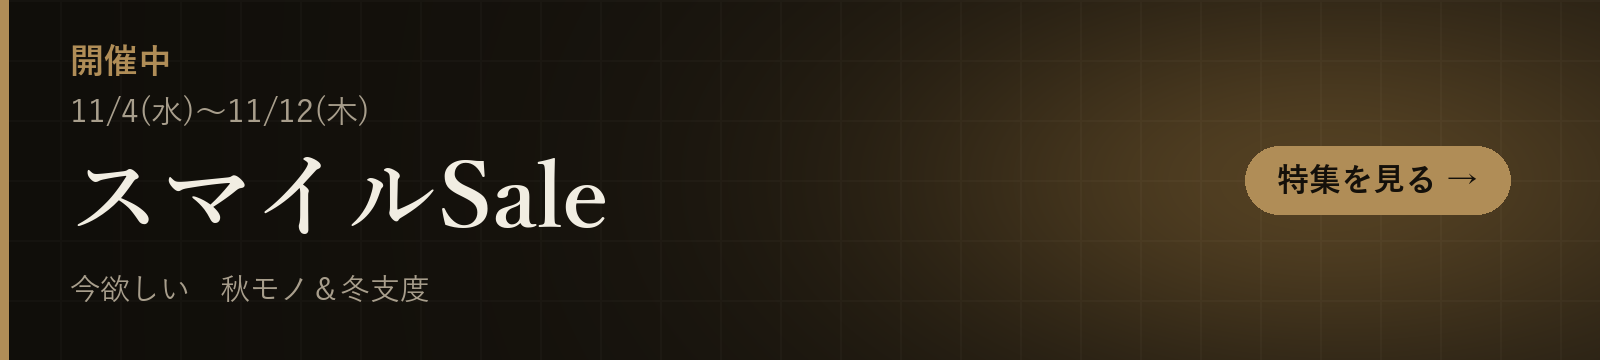
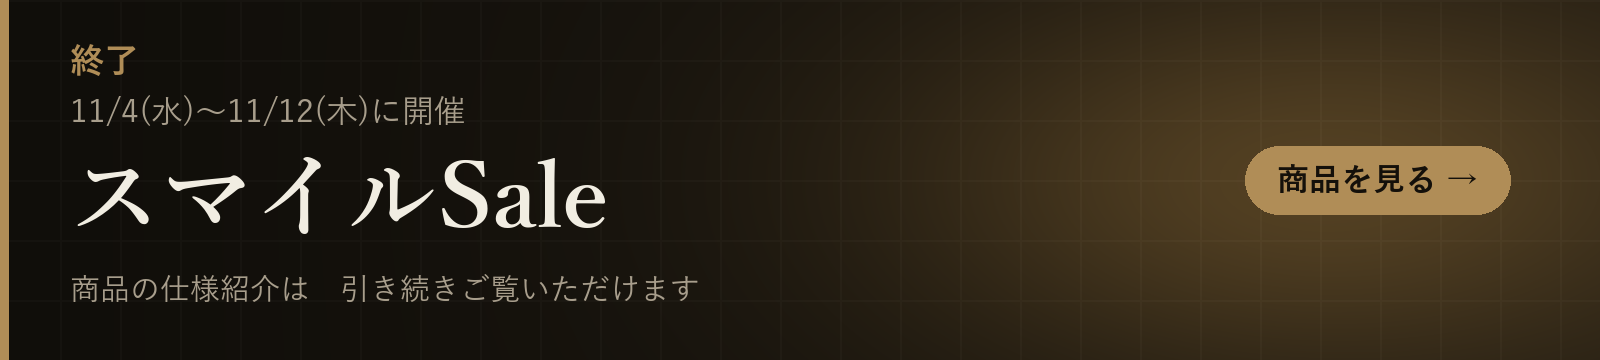
Smile Sale: switch feature page to ended phase

diff --git a/feature-smile-sale-202611.html b/feature-smile-sale-202611.html
@@ -5,7 +5,7 @@
 <script>(function(){try{var t=localStorage.getItem('gearnote-theme');if(t==='light'||t==='dark'){document.documentElement.setAttribute('data-theme',t);}}catch(e){}})();</script>
 <meta name="viewport" content="width=device-width, initial-scale=1.0">
 <title>Amazon スマイルSale特集（11/4〜11/12）｜GEARNOTE</title>
-<meta name="description" content="Amazon「スマイルSale」が開催中です（2026年11月4日(水)9:00〜11月12日(木)23:59）。ジャンル別のチェックスペックと、GEARNOTEが仕様でピックアップした冬支度の家電・ガジェット・日用品・食品を紹介します。">
+<meta name="description" content="2026年11月のAmazonスマイルSaleは終了しました。冬支度の家電・ガジェット・日用品・食品の仕様紹介は、引き続きご覧いただけます。">
 <meta name="robots" content="index, follow">
 <link rel="icon" type="image/svg+xml" href="favicon.svg">
 <link rel="icon" type="image/png" href="favicon-32.png">
@@ -19,14 +19,14 @@
 <meta property="og:type" content="website">
 <meta property="og:site_name" content="GEARNOTE">
 <meta property="og:title" content="Amazon スマイルSale特集（11/4〜11/12）｜GEARNOTE">
-<meta property="og:description" content="Amazon「スマイルSale」が開催中です（2026年11月4日(水)9:00〜11月12日(木)23:59）。ジャンル別のチェックスペックと、GEARNOTEが仕様でピックアップした冬支度の家電・ガジェット・日用品・食品を紹介します。">
+<meta property="og:description" content="2026年11月のAmazonスマイルSaleは終了しました。冬支度の家電・ガジェット・日用品・食品の仕様紹介は、引き続きご覧いただけます。">
 <meta property="og:url" content="https://gearnote.net/feature-smile-sale-202611">
 <link rel="canonical" href="https://gearnote.net/feature-smile-sale-202611">
 <link rel="alternate" type="application/rss+xml" title="GEARNOTE" href="https://gearnote.net/feed.xml">
 <meta property="og:image" content="https://gearnote.net/og-image.png">
 <meta name="twitter:card" content="summary_large_image">
 <meta name="twitter:title" content="Amazon スマイルSale特集（11/4〜11/12）｜GEARNOTE">
-<meta name="twitter:description" content="Amazon「スマイルSale」が開催中です（2026年11月4日(水)9:00〜11月12日(木)23:59）。ジャンル別のチェックスペックと、GEARNOTEが仕様でピックアップした冬支度の家電・ガジェット・日用品・食品を紹介します。">
+<meta name="twitter:description" content="2026年11月のAmazonスマイルSaleは終了しました。冬支度の家電・ガジェット・日用品・食品の仕様紹介は、引き続きご覧いただけます。">
 <meta name="twitter:image" content="https://gearnote.net/og-image.png">
 <link rel="preconnect" href="https://fonts.googleapis.com">
 <link href="https://fonts.googleapis.com/css2?family=Noto+Sans+JP:wght@400;500;700;900&family=Shippori+Mincho:wght@500;600;800&family=Cormorant+Garamond:wght@600;700&display=swap" rel="stylesheet">
@@ -63,25 +63,18 @@
   <div class="wrap">
     <div class="section-head" style="margin-bottom:16px;">
       <div>
-        <span class="tag">開催中</span>
+        <span class="tag">終了</span>
         <h1>Amazon「スマイルSale」特集<br>秋モノ＆冬支度 ピックアップ</h1>
-        <p class="desc">開催期間：2026年11月4日(水)9:00〜11月12日(木)23:59（Amazonの案内より）</p>
+        <p class="desc">開催は終了しました：2026年11月4日(水)9:00〜11月12日(木)23:59</p>
         <p class="pd-byline">執筆・確認：<a href="about#author">GEARNOTE運営（H＆C）</a></p>
-        <p class="pr-notice" style="font-size:0.78rem;color:var(--text-muted,#8a8a8a);margin:4px 0 10px;line-height:1.6;">※ 当ページにはアフィリエイト広告（Amazonアソシエイト）のリンクが含まれます。</p>
+        <p class="pr-notice" style="font-size:0.78rem;color:var(--text-muted,#8a8a8a);margin:4px 0 10px;line-height:1.6;">※ 当サイトはアフィリエイト広告（Amazonアソシエイト）を利用しています。リンク先の商品ページに広告リンクが含まれます。</p>
       </div>
     </div>
 
-    <!-- amazon-official-banner:start -->
-    <div style="max-width:420px;margin:0 auto 24px;text-align:center;">
-      <a href="https://www.amazon.co.jp/events/monthlydealevent?tag=hide0122-22" target="_blank" rel="nofollow sponsored noopener" style="display:block;"><img src="amazon-smile-sale-banner-202611.jpg" width="1200" height="1500" alt="Amazon スマイルSale 11/4(水)9:00〜11/12(木)23:59（Amazon提供のバナー）" style="width:100%;height:auto;border-radius:12px;display:block;"></a>
-      <p style="font-size:0.78rem;color:var(--text-muted,#8a8a8a);margin:8px 0 0;line-height:1.6;">Amazonがアソシエイト向けに配布しているバナーです。クリックするとAmazonのスマイルSaleのページが開きます（アフィリエイトリンク）。</p>
-    </div>
-    <!-- amazon-official-banner:end -->
-
     <div class="legal" style="margin-bottom:24px; padding-top:0; padding-bottom:0;">
 
-      <p style="display:inline-block; padding:6px 16px; border:1px solid var(--gold, #b08d57); border-radius:999px; font-weight:700; letter-spacing:.14em;">🔥 開催中</p>
-      <p><strong>スマイルSaleは11月12日(木)23:59まで開催中です。</strong>テーマは<strong>「今欲しい秋モノ＆冬支度」</strong>です。セール対象かどうか、価格・ポイントの条件は、必ず各商品のAmazon商品ページと、Amazonのキャンペーンページでご確認ください。</p>
+      <p style="display:inline-block; padding:6px 16px; border:1px solid var(--gold, #b08d57); border-radius:999px; font-weight:700; letter-spacing:.14em;">✅ 終了しました</p>
+      <p><strong>2026年11月のスマイルSaleは終了しました。</strong>このページに載せている商品の仕様紹介は、引き続きご覧いただけます。次回以降の開催が発表されたときは、改めてお知らせします。</p>
 
       <h2 style="margin-top:12px;">セール前にやっておくこと（スペックで選ぶ準備）</h2>
       <ol>

diff --git a/category-home.html b/category-home.html
@@ -5029,18 +5029,18 @@
       <h2 class="pd-deep-heading"><span class="num">03</span>比較ページ（AとBの違い）から選ぶ</h2>
       <p>このカテゴリの商品どうしを、仕様表の数字で並べて比べたページです。気になる組み合わせから開けます。</p>
       <ul class="pos-list">
-        <li><a href="compare-hitachi-de-n60hv-vs-yamazen-yh-d30">日立 衣類乾燥機 DE-N60HVと山善 衣類乾燥機 YH-D30の違い</a></li>
-        <li><a href="compare-iris-colorbox-cx3-vs-metal-rack-mr-1215dj">アイリスオーヤマのカラーボックス3段 CX-3とメタルラック4段 MR-1215DJの違い</a></li>
-        <li><a href="compare-iris-ohyama-karierie-fk-az23c-vs-mitsubishi-ad-x50">アイリスオーヤマ カラリエ FK-AZ23C-Wと三菱電機 AD-X50-Wの違い</a></li>
-        <li><a href="compare-iris-ohyama-storage-case-bc-m-vs-closet-chest-nsclz503">アイリスオーヤマの収納ケース BC-M（3個セット）とクローゼットチェスト NSCLZ503の違い</a></li>
-        <li><a href="compare-koizumi-kdk-60261-vs-kdk-60268t">コイズミ 電気掛敷毛布 KDK-60261とKDK-60268Tの違い</a></li>
-        <li><a href="compare-koizumi-kdk-75261rt-vs-kdk-75266d">コイズミ 電気掛敷毛布 KDK-75261RTとKDK-75266Dの違い</a></li>
-        <li><a href="compare-koizumi-kss-1026a-vs-keh-0960">コイズミ KSS-1026A/HとKEH-0960/Hの違い</a></li>
-        <li><a href="compare-koizumi-ktr-34262-vs-yamazen-eyc-105752">コイズミ 家具調こたつ KTR-34262と山善 こたつテーブル EYC-105752の違い</a></li>
-        <li><a href="compare-lepro-oe1-vs-switchbot-rgbic-floor-light">Lepro AI フロアライト OE1とSwitchBot RGBICフロアライトの違い</a></li>
-        <li><a href="compare-maruka-mini-yutanpo-vs-a-ace-2-5l">マルカ ミニゆたA（600ml）と湯たんぽA（2.5L）の違い</a></li>
-        <li><a href="compare-ohm-book-light-nit-byl2tdw-vs-elecom-ring-light-de-l01bk">オーム電機 充電式ブックライト NIT-BYL2TDWとエレコム クリップ式リングライト DE-L01BKの違い</a></li>
-        <li><a href="compare-ohm-ls-b400jw-vs-elpa-hlh2206">オーム電機 ソーラー式LEDセンサーウォールライト LS-B400JW-SD2とエルパ もてなしライト HLH-2206の違い</a></li>
+        <li><a href="compare-anker-a91c8-vs-belkin-srz001ja5-7in1-charging-station">Anker Nano Charging Station 7-in-1 100W（A91C8）とBelkin 7 in 1 充電ステーション（SRZ001ja5）の違い</a></li>
+        <li><a href="compare-benq-iscreenbar-vs-screenbar-standard">BenQ iScreenBarとScreenBar スタンダードモデルの違い</a></li>
+        <li><a href="compare-benq-minduo-2-vs-panasonic-sq-ld310-desk-light">BenQ MindDuo 2とパナソニック SQ-LD310のデスクライトの違い</a></li>
+        <li><a href="compare-bosch-gll50g-vs-fanttik-d12-plus">ボッシュ GLL50GとFanttik D12 PLUSの違い</a></li>
+        <li><a href="compare-corona-relala-cw-1826r-vs-haier-ja-w16a">コロナ 窓用エアコン Relala CW-1826Rとハイアール JA-W16Aの違い</a></li>
+        <li><a href="compare-dainichi-ef-h1200h-vs-sharp-hx-tk12">ダイニチ EF-H1200H-Wとシャープ HX-TK12-Wの違い</a></li>
+        <li><a href="compare-dainichi-hd-rx325-w-vs-hd-c300h-w">ダイニチ ハイブリッド式加湿器 HD-RX325-WとHD-C300H-Wの違い</a></li>
+        <li><a href="compare-delonghi-rhj21f1015-vs-mdhu09">デロンギ ヴェルティカルド RHJ21F1015とマルチダイナミックヒーター MDHU09の違い</a></li>
+        <li><a href="compare-engineer-ns-03-vs-fujiya-770-150">エンジニア マイクロニッパー NS-03とフジ矢 電工名人強力ニッパ 770-150の違い</a></li>
+        <li><a href="compare-eufy-x10-pro-omni-vs-omni-c28">Eufy X10 Pro OmniとRobot Vacuum Omni C28の違い</a></li>
+        <li><a href="compare-fanttik-s1-apex-vs-nex-s1-pro">Fanttik S1 APEXとFanttik NEX S1 Proの違い</a></li>
+        <li><a href="compare-hisense-hw-k55b-vs-hw-kd80l">ハイセンス洗濯機 HW-K55B（5.5kg）とHW-KD80L（8kg）の違い</a></li>
       </ul>
       <p><a href="compare-index">比較ページの一覧（全657本）を見る</a></p>
     </div>

diff --git a/category-kitchen.html b/category-kitchen.html
@@ -1705,18 +1705,18 @@
       <h2 class="pd-deep-heading"><span class="num">03</span>比較ページ（AとBの違い）から選ぶ</h2>
       <p>このカテゴリの商品どうしを、仕様表の数字で並べて比べたページです。気になる組み合わせから開けます。</p>
       <ul class="pos-list">
-        <li><a href="compare-balmuda-the-pot-kpt03jp-vs-yamazen-egl-c1281">バルミューダ ザ・ポット 550ml KPT03JP-CRと山善 電気ケトル EGL-C1281(BB)の違い</a></li>
+        <li><a href="compare-bodum-pilatus-vs-canteen-doublewall-glass">BODUM PILATUS（350ml）とCANTEEN（400ml）のダブルウォールグラスの違い</a></li>
+        <li><a href="compare-captainstag-ug3032-skillet-vs-ug3040-cocotte">キャプテンスタッグ 両手スキレット UG-3032とココット ダッチオーブン UG-3040の違い</a></li>
         <li><a href="compare-cosori-coffee-kettle-vs-smart-gooseneck-kettle">COSORI コーヒーケトル（細口）とCOSORI 電動グースネック スマートケトルの違い</a></li>
+        <li><a href="compare-delonghi-icona-vintage-kbov1240j-vs-tefal-justin-lock-ko5908">デロンギ アイコナ・ヴィンテージとティファール ジャスティン ロックの違い</a></li>
+        <li><a href="compare-hario-rpln14-vs-marna-k787bk-water-pitcher">HARIO 冷蔵庫ポット スリムN RPLN-14とマーナ ウォーターピッチャー1L K787BKの違い</a></li>
+        <li><a href="compare-hario-srms2024-vs-iwaki-k425-glass-mug">HARIO 耐熱スタッキングマグ SRMS-2024とiwaki Airグラス マグ K425の違い</a></li>
+        <li><a href="compare-hario-v60-dripper-02-vs-switch-dripper">HARIO V60 透過ドリッパー 02（VDTA-02-T）とHARIO 浸漬式ドリッパー スイッチ（SSD-200-B）の違い</a></li>
+        <li><a href="compare-ishigaki-donabe-6go-4375-vs-8go-4502">イシガキ 土鍋6号（4375）と8号（4502）の違い</a></li>
+        <li><a href="compare-kai-light-frying-pan-20cm-dw5628-vs-riverlight-kiwami-iron-wok-j1428">貝印 軽量フライパン20cm DW5628とリバーライト 極JAPAN 鉄の炒め鍋28cm J1428の違い</a></li>
+        <li><a href="compare-miyoshi-ojiru-wan-tw84-vs-kishu-hachi-type1">みよし漆器本舗 大汁椀 13cm（tw-84）と紀州漆器 B.C. HACHI type1 汁椀の違い</a></li>
         <li><a href="compare-narumi-patia-23cm-vs-yamatsu-spazio-27cm">NARUMI パティア 23cm（41623-5962）とYAMATSU STANDARD スパツィオ 27cm皿 5枚セットの違い</a></li>
-        <li><a href="compare-ninja-blast-max-vs-twisti">Ninja Blast Max（BC251JGY）とNinja Twisti（SS151J）の違い</a></li>
-        <li><a href="compare-noda-kokonabe-ko-21bk-vs-kinto-kakomi-donabe-25213">野田琺瑯 ココナベ KO-21BKとKINTO KAKOMI 直火土鍋 1.2Lの違い</a></li>
-        <li><a href="compare-panasonic-mx-x501-vs-mx-s302">パナソニック ミキサー（MX-X501-N）とハンドブレンダー（MX-S302-W）の違い</a></li>
-        <li><a href="compare-tamahashi-tp21-vs-wahei-tm9467-fryer">タマハシ 食彩亭 角形揚げ鍋20cm TP-21と和平フレイズ 燕三条製 天ぷら鍋20cm TM-9467の違い</a></li>
-        <li><a href="compare-tanita-td384-vs-temppro-tm04">タニタ でか見えタイマー TD-384とTempPro キッチンタイマー TM04の違い</a></li>
-        <li><a href="compare-thermos-jdu351-vs-atlas-abib-ebk">サーモス 保冷缶ホルダー（JDU-351 SL）とアトラス ペットボトルホルダー（ABIB-EBK）の違い</a></li>
         <li><a href="compare-thermos-jow-600-vs-kinto-water-bottle-500ml">サーモス 真空断熱ケータイマグ JOW-600とKINTO ウォーターボトル 500mlの違い</a></li>
-        <li><a href="compare-tiger-mta-h120wh-vs-zojirushi-su-aa48">タイガー ステンレスボトル MTA-H120WH（1.2L）と象印 スクリューマグ SU-AA48（480ml）の違い</a></li>
-        <li><a href="compare-tiger-pis-n300t-vs-zojirushi-cv-ga22">タイガー魔法瓶 電気ポット PIS-N300Tと象印 電気ポット CV-GA22の違い</a></li>
       </ul>
       <p><a href="compare-index">比較ページの一覧（全657本）を見る</a></p>
     </div>

diff --git a/category-smart.html b/category-smart.html
@@ -3994,18 +3994,18 @@
       <h2 class="pd-deep-heading"><span class="num">03</span>比較ページ（AとBの違い）から選ぶ</h2>
       <p>このカテゴリの商品どうしを、仕様表の数字で並べて比べたページです。気になる組み合わせから開けます。</p>
       <ul class="pos-list">
-        <li><a href="compare-huawei-watch-fit-4-vs-suunto-run">HUAWEI WATCH FIT 4（ピンク）とSUUNTO RUNの違い</a></li>
-        <li><a href="compare-galaxy-tab-a11-plus-vs-s12-plus">Galaxy Tab A11+とGalaxy Tab S12+の違い</a></li>
-        <li><a href="compare-galaxy-watch-ultra-2025-vs-ultra2">Samsung Galaxy Watch Ultra (2025)とGalaxy Watch Ultra2の違い</a></li>
-        <li><a href="compare-garmin-vivomove-trend-vs-vivosmart-5">GARMIN vívomove Trendとvívosmart 5の違い</a></li>
-        <li><a href="compare-hisense-50e50s-vs-regza-50e350s">ハイセンス 50E50Sとレグザ 50E350Sの違い</a></li>
-        <li><a href="compare-insta360-link-2-pro-vs-link-2c">Insta360 Link 2 ProとLink 2Cの違い</a></li>
-        <li><a href="compare-keychron-b1-pro-vs-b6-pro">Keychron B1 ProとKeychron B6 Proの違い</a></li>
-        <li><a href="compare-kioxia-exceria-plus-g3-1tb-vs-pcie5-2tb">キオクシアの内蔵SSD EXCERIA PLUS G3（1TB）とPCIe Gen5（2TB）の違い</a></li>
-        <li><a href="compare-kioxia-exceria-pro-vs-sandisk-extreme-pro-sdxc-128gb">KIOXIA EXCERIA PRO SDXC UHS-IIとSanDisk Extreme PRO SDXC UHS-II（128GB）の違い</a></li>
-        <li><a href="compare-kioxia-microsd-128gb-vs-high-endurance-128gb">KIOXIA microSD 128GBとKIOXIA 高耐久 microSD 128GB（EXCERIA HIGH ENDURANCE G2）の違い</a></li>
-        <li><a href="compare-kioxia-microsd-256gb-vs-elecom-microsd-64gb">キオクシア microSD 256GBとエレコム microSD 64GBの違い</a></li>
-        <li><a href="compare-kioxia-pkp-1tb-vs-kingston-xs1000-1tb">キオクシア ポータブルSSD（EXCERIA PLUS G2 1TB）とKingston XS1000（1TB）の違い</a></li>
+        <li><a href="compare-anker-prime-dock-14in1-vs-belkin-tb4-dock-5in1">Anker Prime ドッキングステーション（14-in-1）とBelkin Thunderbolt 4 ドッキングステーション（5-in-1）の違い</a></li>
+        <li><a href="compare-benq-pd2732u-vs-iodata-ex-cu273as">BenQ PD2732UとIODATA EX-CU273AS-Fの違い</a></li>
+        <li><a href="compare-benq-zowie-xl2540xplus-vs-iodata-gcfx-ex-gd252uhb">BenQ ZOWIE XL2540X+とIODATA GCFX EX-GD252UHBの違い</a></li>
+        <li><a href="compare-buffalo-bsh4u125u3bk-vs-elecom-u3h-s418bbk-usb-hub">バッファロー USBハブ BSH4U125U3BKとエレコム USBハブ U3H-S418BBK/ECの違い</a></li>
+        <li><a href="compare-casio-gbd-h2000-vs-polar-vantage-m3">CASIO G-SHOCK GBD-H2000とPOLAR Vantage M3の違い</a></li>
+        <li><a href="compare-dell-s2426hs-vs-s2725qc">Dell S2426HSとS2725QCの違い</a></li>
+        <li><a href="compare-dji-avata-2-vs-dji-flip">DJI Avata 2 Fly MoreコンボとDJI Flipの違い</a></li>
+        <li><a href="compare-elecom-leggero-vs-hhkb-hybrid-types">エレコム メカニカルキーボード Leggero（TK-MC51UKPAGY）とHHKB Professional HYBRID Type-Sの違い</a></li>
+        <li><a href="compare-elecom-magkeep-7in1-vs-sanwa-usb-10tchps39s">エレコム MAGKEEP 7in1 USB-Cハブ（DST-N071BPBK）とサンワサプライ USB 10Gbps Type-Cハブ（USB-10TCHPS39S）の違い</a></li>
+        <li><a href="compare-elecom-precisionist-tk-pn1075-vs-buffalo-bskbw355">エレコム Precisionist TK-PN1075MPABKとバッファロー BSKBW355BKの違い</a></li>
+        <li><a href="compare-elgato-4k-x-vs-cam-link-4k">Elgato 4K XとCam Link 4Kの違い</a></li>
+        <li><a href="compare-eufy-smart-scale-a1-vs-p2-pro">Eufy Smart Scale A1とP2 Proの違い</a></li>
       </ul>
       <p><a href="compare-index">比較ページの一覧（全657本）を見る</a></p>
     </div>

diff --git a/category-toys.html b/category-toys.html
@@ -2006,17 +2006,17 @@
       <h2 class="pd-deep-heading"><span class="num">03</span>比較ページ（AとBの違い）から選ぶ</h2>
       <p>このカテゴリの商品どうしを、仕様表の数字で並べて比べたページです。気になる組み合わせから開けます。</p>
       <ul class="pos-list">
-        <li><a href="compare-tamiya-148-zerosen-21-vs-hasegawa-172-f14a-tomcat">タミヤ 1/48 零式艦上戦闘機21型とハセガワ 1/72 F-14A トムキャットの違い</a></li>
+        <li><a href="compare-nuipan-mickey-vs-bluey-teddy-plush-s">タカラトミーアーツ Nuiパン ミッキーマウス（すわり）Sとタカラトミー ブルーイ テディブルーイ ぬいぐるみ（S）の違い</a></li>
+        <li><a href="compare-pentel-futokureyon-vs-sakura-mizudeotosu-crayon-12">ぺんてる 水でおとせるふとくれよんとサクラクレパス 水でおとせるクレヨンの違い</a></li>
+        <li><a href="compare-pentel-kurulira-vs-sakura-coupy-pencil-12">ぺんてる くるりら12色とサクラクレパス クーピーペンシル12色の違い</a></li>
+        <li><a href="compare-rangs-dodgebee-235-vs-frisbee-maxcoaster">ラングス ドッヂビー 235 クロスビームとフリスビー マックスコースターの違い</a></li>
+        <li><a href="compare-rotom-pad-vs-doraemon-ai-pc">タカラトミー ポケットモンスター スマホロトム Padとバンダイ ドラえもんAIパソコンの違い</a></li>
         <li><a href="compare-arclight-love-letter-2nd-vs-just-one-2025">アークライトのラブレター 第2版とジャスト・ワン（2025年版）の違い</a></li>
-        <li><a href="compare-bandai-bs-entry-26rsd01-vs-dm25-sd2-vs-fusionworld-fs06">バトルスピリッツ エントリーデッキ 赫焔ノ風牙・デュエル・マスターズ DM25-SD2・フュージョンワールド スタートデッキ FS06の違い</a></li>
-        <li><a href="compare-bandai-eg-wing-vs-hg-aerial-vs-sdex-aile-strike">EG ウイングガンダム・HG ガンダムエアリアル・SDEX エールストライクガンダムの違い</a></li>
-        <li><a href="compare-bandai-gundam-st02-vs-digimon-st24-vs-union-arena-ua37st">バンダイのスタートデッキ ガンダムカードゲームST02・デジモンカードゲームST-24・UNION ARENA UA37STの違い</a></li>
         <li><a href="compare-coyote-vs-oink-nine-tiles">ニューゲームズオーダー コヨーテ 日本語版とオインクゲームズ ナインタイルの違い</a></li>
         <li><a href="compare-gp-catan-standard-2026-vs-ravensburger-scotland-yard-24909">ジーピー カタン スタンダード版（2026年版）とラベンスバーガー スコットランドヤード（24909 日本語版）の違い</a></li>
         <li><a href="compare-hobbyjapan-dixit-vs-dobble">ホビージャパン ディクシット（2021年新版）とドブル（2023年新版）の違い</a></li>
         <li><a href="compare-hobbyjapan-got-five-vs-lunar-colony">ホビージャパン ゴットファイブ！と月面コロニー大惨事の違い</a></li>
         <li><a href="compare-kumon-hajimete-no-hasami-vs-kokuyo-aerofit-saxa-kids">くもんのはじめてのはさみとコクヨ エアロフィットサクサ（こども用）の違い</a></li>
-        <li><a href="compare-laq-basic-511-vs-freestyle-100-vs-lego-classic-10698">LaQ ベーシック511・LaQ フリースタイル100 ブラック・レゴ クラシック 黄色のアイデアボックスの違い</a></li>
         <li><a href="compare-mimicry-pet-hamster-vs-nyandakimiha-moving-plush-cat">ミミクリーペット ハムスター（メイプル）とニャンだきみは!? 動くぬいぐるみ まねっこの違い</a></li>
       </ul>
       <p><a href="compare-index">比較ページの一覧（全657本）を見る</a></p>

diff --git a/category-beauty.html b/category-beauty.html
@@ -4497,17 +4497,17 @@
       <p>このカテゴリの商品どうしを、仕様表の数字で並べて比べたページです。気になる組み合わせから開けます。</p>
       <ul class="pos-list">
         <li><a href="compare-kai-kq1833-vs-braun-en10-nose-trimmer">貝印 鼻毛カッター KQ1833とブラウン 鼻毛カッター EN10の違い</a></li>
+        <li><a href="compare-lamdash-3blade-es-l320w-vs-palm-in-es-np5d0u">ラムダッシュ 3枚刃（ES-L320W-K）とパームイン 5枚刃（ES-NP5D0U-K）の違い</a></li>
         <li><a href="compare-panasonic-doltz-dj42-vs-dj55">パナソニック ジェットウォッシャー ドルツ EW-DJ42-WとEW-DJ55-Wの違い</a></li>
         <li><a href="compare-panasonic-doltz-ew-dp38-vs-pocketdoltz-ew-ds42">パナソニックのドルツ EW-DP38-Wとポケットドルツ EW-DS42-Kの違い</a></li>
         <li><a href="compare-panasonic-eh-hn50-vs-eh-hs9j">パナソニック ストレートヘアアイロン ナノケア EH-HN50-WとEH-HS9J-Kの違い</a></li>
+        <li><a href="compare-panasonic-er-sc61-vs-tescom-tt490a">パナソニック バリカン ER-SC61-Kとテスコム バリカン TT490A-Kの違い</a></li>
+        <li><a href="compare-panasonic-er2405p-vs-philips-mg3921">パナソニック ヒゲトリマー ER2405P-Kとフィリップス オールインワントリマー MG3921/15の違い</a></li>
+        <li><a href="compare-panasonic-lamdash-pro-es-nlv5x-vs-es-l571u">パナソニック ラムダッシュPRO ES-NLV5X-KとES-L571U-Sの違い</a></li>
         <li><a href="compare-panasonic-mayu-gm30-vs-ferrie-wf63">パナソニック マユ・フェイスシェーバー ER-GM30とフェイスシェーバー フェリエ ES-WF63の違い</a></li>
-        <li><a href="compare-panasonic-palmin-es-pv3a-k-vs-ramdash-pro-es-ls9cx">パナソニック ラムダッシュ パームインシェーバー（ES-PV3A-K）とラムダッシュPRO（ES-LS9CX）の違い</a></li>
-        <li><a href="compare-philips-hairclipper-hc3530-vs-hc5610">フィリップス ヘアーカッター HC3530とHC5610の違い</a></li>
-        <li><a href="compare-philips-sonicare-2100-vs-3100">フィリップス ソニッケアー 2100シリーズと3100シリーズの違い</a></li>
-        <li><a href="compare-philips-sonicare-powerflosser-2000-vs-3000">フィリップス ソニッケアー コードレスパワーフロッサー2000と3000の違い</a></li>
-        <li><a href="compare-refa-heart-dryer-aira-vs-beautech-dryer-se">ReFaのヘアドライヤー HEART DRYER AiraとBEAUTECH DRYER SEの違い</a></li>
-        <li><a href="compare-atex-ax-hp117gr-vs-ax-hj360gr">アテックス ルルド プロもみ AX-HP117grとふくらはぎゅ AX-HJ360grの違い</a></li>
-        <li><a href="compare-kinujo-2way-iron-vs-mini-iron-deux">KINUJO 2WAY IRONとミニアイロン ドゥーの違い</a></li>
+        <li><a href="compare-tanita-bc705n-vs-omron-karada-scan-krd-603t2">タニタ 体組成計 BC-705Nとオムロン カラダスキャン KRD-603T2-BKの違い</a></li>
+        <li><a href="compare-terumo-et-c232p01-vs-omron-mc688-thermometer">テルモ 電子体温計 ET-C232P01とオムロン けんおんくん MC-688の違い</a></li>
+        <li><a href="compare-tescom-hd2400-vs-salonia-speedy-ion-dryer">テスコム Speedom TEC-HD2400-KとSALONIA スピーディーイオンドライヤー SAL25220XGの違い</a></li>
       </ul>
       <p><a href="compare-index">比較ページの一覧（全657本）を見る</a></p>
     </div>

diff --git a/category-daily.html b/category-daily.html
@@ -2693,15 +2693,15 @@
         <li><a href="compare-captainstag-uw-4510-vs-ohm-rad-m799n">キャプテンスタッグ UW-4510とOHM AudioComm RAD-M799Nの違い</a></li>
         <li><a href="compare-ohe-body-brush-vs-muji-shower-brush">オーエ ボディブラシ（ヒノキ・馬毛）と無印良品 ポリプロピレンシャワーブラシの違い</a></li>
         <li><a href="compare-ohe-body-towel-vs-marna-shabonball">オーエ ボディタオル（ふつう・グレー）とマーナ 背中も洗えるシャボンボール（B873B）の違い</a></li>
-        <li><a href="compare-panasonic-lda7ngsk6f-vs-toshiba-lda7n-g-k60v1rp">パナソニック LDA7NGSK6Fと東芝 LDA7N-G/K60V1RPの違い</a></li>
-        <li><a href="compare-tanita-bc705n-vs-omron-karada-scan-krd-603t2">タニタ 体組成計 BC-705Nとオムロン カラダスキャン KRD-603T2-BKの違い</a></li>
-        <li><a href="compare-topre-m10-vs-belca-ms-sl15-iv-bath-lid">東プレ 折りたたみ風呂ふた M10とBelca シャッター式風呂ふた MS-SL15-IVの違い</a></li>
+        <li><a href="compare-panasonic-evolta-d-lr20ej-vs-amazonbasics-d-12">パナソニック EVOLTA 単1形6本パックとAmazonベーシック 単1形12本パックの違い</a></li>
+        <li><a href="compare-toshiba-tnh-4me-vs-eneloop-aaa">東芝 単4形ニッケル水素電池(TNH-4ME)とパナソニック eneloop 単4形の違い</a></li>
         <li><a href="compare-3m-bathshine-brush-b-492j-vs-azuma-brushspo-g-bt751">3M スコッチブライト バスシャイン ブラシ（B-492J）とアズマ工業 ブラシスポG（BT751）の違い</a></li>
-        <li><a href="compare-aimedia-bath-drain-net-150-vs-bonstar-easy-net-y063">アイメディア お風呂の排水口ネット 150枚入とボンスター 髪の毛トリトリ Easyネット 50枚入 Y-063の違い</a></li>
-        <li><a href="compare-bonstar-gomi-shut-m340-vs-m341-drain-net">ボンスター ごみシャット M-340（排水口・三角コーナー兼用）とM-341（浅型排水口用）の違い</a></li>
+        <li><a href="compare-elecom-power-strip-6outlet-vs-tower-8outlet-vs-10port">エレコム電源タップ T-K6A-2630BK・TT-U01-0820BK・ECT-0103BKの違い</a></li>
         <li><a href="compare-elecom-power-strip-t-st02n-vs-t-ktr05wh">エレコム 電源タップ T-ST02N-2320WHとT-KTR05WH（3個口）の違い</a></li>
-        <li><a href="compare-kokubo-kawork-vs-lec-kaku-vs-muji-toilet-brush">KOKUBO カワーク・レック KAKU・無印良品のケース付きトイレブラシの違い</a></li>
         <li><a href="compare-mitsubishi-manganese-vs-panasonic-alkaline-aa">三菱電機のマンガン乾電池 単3形とパナソニックのアルカリ乾電池 単3形の違い</a></li>
+        <li><a href="compare-scottie-100m-single-48-vs-nepia-54m-double-32">スコッティ トイレットペーパー シングル100m 48ロールとネピア ダブル54m 32ロールの違い</a></li>
+        <li><a href="compare-showa-no846-pe-glove-vs-matsuyoshi-nitrile-glove">ショーワグローブ No.846（ポリエチレン）とマツヨシ ニトリルグローブの違い</a></li>
+        <li><a href="compare-topre-m10-vs-belca-ms-sl15-iv-bath-lid">東プレ 折りたたみ風呂ふた M10とBelca シャッター式風呂ふた MS-SL15-IVの違い</a></li>
       </ul>
       <p><a href="compare-index">比較ページの一覧（全657本）を見る</a></p>
     </div>

diff --git a/category-sports.html b/category-sports.html
@@ -1682,17 +1682,17 @@
       <p>このカテゴリの商品どうしを、仕様表の数字で並べて比べたページです。気になる組み合わせから開けます。</p>
       <ul class="pos-list">
         <li><a href="compare-shimano-pitbull-4-vs-hardbull-8plus">シマノ ピットブル 4とハードブル 8+の違い</a></li>
-        <li><a href="compare-takita-zafu-30cm-vs-fungoal-zen-triangle-cushion">滝田商店の座禅布団（座布）1尺とFungoal Zenフォーム 三角クッションの違い</a></li>
-        <li><a href="compare-casio-str-300j-vs-stw-1000">カシオ STR-300JとSTW-1000の違い</a></li>
+        <li><a href="compare-swans-sa7-vs-speedo-sd93c03">スワンズ SA-7とスピード SD93C03のシリコーンスイムキャップの違い</a></li>
+        <li><a href="compare-cateye-volt200-vs-faishilan-bike-light-2000lm">キャットアイ VOLT200 HL-EL151RCとFAISHILAN 自転車ライト 2000ルーメンの違い</a></li>
         <li><a href="compare-coleman-fire-disc-solo-vs-bundok-lotus-plus">コールマン ファイアーディスクソロとBUNDOK Lotus+（BD-467）の違い</a></li>
         <li><a href="compare-coleman-take6-vs-shimano-spaza-basis-25l">コールマン クーラーボックス テイク6（4.7L）とシマノ スペーザ ベイシス（25L）の違い</a></li>
+        <li><a href="compare-coleman-tasman-mummy-l15-vs-logos-cool-inner-sleeping-bag">コールマン タスマンキャンピングマミー L-15とロゴス 冷感・吸汗 インナーシュラフの違い</a></li>
+        <li><a href="compare-gentos-ex109d-vs-panasonic-bf-al06n-vs-toshiba-lkl-3000">ジェントス EX-109D・パナソニック BF-AL06N-W・東芝 LKL-3000(W)の違い</a></li>
         <li><a href="compare-grong-pilates-ball-25cm-vs-gymnic-soft-ball-23cm">グロングのピラティスボール25cmとダンノ ギムニク ソフトギムニク23cmの違い</a></li>
         <li><a href="compare-meiho-bucket-mouse-bm5000-vs-versus-vs7010">明邦（MEIHO）のバケットマウス BM-5000とVERSUS VS-7010の違い</a></li>
-        <li><a href="compare-ogk-kabuto-rect-vs-smrg-sr-seh-helmet">OGK KABUTO RECTとSMRG SR-SEHの自転車ヘルメットの違い</a></li>
+        <li><a href="compare-minoura-pc500-vs-topeak-modular-cage2">ミノウラ ペットケージ・ミニ2（PC-500）とトピーク モジュラーケージ2の違い</a></li>
         <li><a href="compare-shimano-19-fx-vs-23-sedona">シマノ 19 FXと23 セドナの違い</a></li>
-        <li><a href="compare-snowpeak-titanium-mug-300-vs-sierra-cup-e-203">スノーピーク チタンマグ 300とステンレスシェラカップ E-203の違い</a></li>
-        <li><a href="compare-soto-st310-vs-iwatani-cb-jcb">ソト レギュレーターストーブ ST-310とイワタニ ジュニアコンパクトバーナー CB-JCBの違い</a></li>
-        <li><a href="compare-stretchpole-ex-vs-half-cut">ストレッチポール EXとハーフカットの違い</a></li>
+        <li><a href="compare-takita-zafu-30cm-vs-fungoal-zen-triangle-cushion">滝田商店の座禅布団（座布）1尺とFungoal Zenフォーム 三角クッションの違い</a></li>
       </ul>
       <p><a href="compare-index">比較ページの一覧（全657本）を見る</a></p>
     </div>

diff --git a/category-car.html b/category-car.html
@@ -1407,17 +1407,17 @@
       <p>このカテゴリの商品どうしを、仕様表の数字で並べて比べたページです。気になる組み合わせから開けます。</p>
       <ul class="pos-list">
         <li><a href="compare-denso-diu-9500-vs-panasonic-cy-et926d">デンソー DIU-9500とパナソニック CY-ET926Dの違い</a></li>
+        <li><a href="compare-kure-super-greasemate-1056-vs-silicone-greasemate-1066">KURE スーパーグリースメイト 1056とシリコングリースメイト 1066の違い</a></li>
+        <li><a href="compare-prostaff-cerberus-evo-p204-vs-dual-blade-p193">プロスタッフ モンスター サーベラスEVO P204とデュアルブレード P193の違い</a></li>
+        <li><a href="compare-rinrei-gguard-w33-vs-ultra-hard-w35">リンレイ Gガード固形WAX W-33とウルトラハードダブルコーティング W-35の違い</a></li>
+        <li><a href="compare-seiwa-imp356-vs-compal-e-snow-brush">セイワ スノーブラシ IMP356とコンパル アルミスノーブラシE型の違い</a></li>
+        <li><a href="compare-soft99-cho-glaco-vs-prostaff-rainmonster-strong">ソフト99 超ガラコとプロスタッフ レインモンスター ストロングの違い</a></li>
         <li><a href="compare-yupiteru-wdt510c-vs-comtec-zdr-550d">ユピテル WDT510cとコムテック ZDR-550Dの違い</a></li>
         <li><a href="compare-amon-jump-starter-4827-vs-utrai-2000a">エーモン ジャンプスターター 4827とUTRAI ジャンプスターター 2000Aの違い</a></li>
-        <li><a href="compare-anker-powerdrive-2-alloy-vs-3-duo">Anker PowerDrive 2 AlloyとPowerDrive III Duoの違い</a></li>
         <li><a href="compare-carmate-cz494-vs-seiwa-k448-door-protector">カーメイト ドアエッジプロテクター CZ494とセイワ カープロテクター K448の違い</a></li>
         <li><a href="compare-carmate-drdeo-d289-vs-d230w">カーメイト Dr.DEO D289とD230Wの違い</a></li>
-        <li><a href="compare-carmate-dz412-vs-napolex-fizz872-drink-holder">カーメイト ドリンクホルダー増設 DZ412とナポレックス Fizz ACホルダー Fizz-872の違い</a></li>
-        <li><a href="compare-carmate-dz491-vs-exea-eh197-tissue-case">カーメイト 車用ティッシュケース DZ491とEXEA セミハードティッシュケース EH-197の違い</a></li>
         <li><a href="compare-carmate-dz572-vs-dz543-car-trash">カーメイト 車用ゴミ箱 DZ572とDZ543の違い</a></li>
         <li><a href="compare-carmate-suiaka-teppun-shampoo-c94-vs-surluster-car-shampoo-1000">カーメイト 水アカ鉄粉シャンプー C94とシュアラスター カーシャンプー1000の違い</a></li>
-        <li><a href="compare-carmate-zero-towel-c433-vs-surluster-microfiber-cloth-s172">カーメイト 超吸水ゼロタオル C433 Lサイズとシュアラスター マイクロファイバークロス（5色セット）S-172の違い</a></li>
-        <li><a href="compare-cellstar-ar37lc-vs-yupiteru-a1200a">セルスター AR-37LCとユピテル A1200aのレーダー探知機の違い</a></li>
       </ul>
       <p><a href="compare-index">比較ページの一覧（全657本）を見る</a></p>
     </div>

diff --git a/category-care.html b/category-care.html
@@ -1196,18 +1196,18 @@
       <h2 class="pd-deep-heading"><span class="num">07</span>比較ページ（AとBの違い）から選ぶ</h2>
       <p>このカテゴリの商品どうしを、仕様表の数字で並べて比べたページです。気になる組み合わせから開けます。</p>
       <ul class="pos-list">
-        <li><a href="compare-panasonic-pokkaretto-ds-fp600-vs-yamazen-dsf-s123">パナソニック ポッカレット DS-FP600と山善 DSF-S123の違い</a></li>
         <li><a href="compare-aron-karupittan-vs-stainless-bathtub-stand">アロン化成 安寿 かるぴったん 標準タイプとステンレス製浴槽台R 10cm（536-440）の違い</a></li>
         <li><a href="compare-tacaof-cipur-sicp02-vs-boxt-sist02">シルバーカー シプール SICP02とボクスト SIST02の違い</a></li>
         <li><a href="compare-tacaof-eon12-folding-vs-ep03-telescopic-stick">テイコブ 折りたたみ式伸縮ステッキ EON12とテイコブ 伸縮ステッキ EP03の違い</a></li>
         <li><a href="compare-takeko-hugo-vs-taketora-bamboo-slimneck-stick">竹虎 ヒューゴステッキ 104752と竹虎 バンブーステッキ 細首タイプの違い</a></li>
         <li><a href="compare-taketora-happy-mini-vs-careparents-walker-z21bk">竹虎 歩行車 ハッピーミニとCare-parents 四輪歩行車 Z21BKの違い</a></li>
         <li><a href="compare-yamazen-kfw16-walker-vs-rakurakuken-folding-walker-fixed">山善 歩行器 KFW-16(BZ)と楽々健 折り畳み式歩行器 固定型の違い</a></li>
+        <li><a href="compare-irisohyama-shower-chair-sct-350-vs-step-inbath-chair-ys-200">アイリスオーヤマ シャワーチェア SCT-350とステップ＆インバスチェア YS-200の違い</a></li>
         <li><a href="compare-lifree-hitobanjuu-900cc-vs-refre-sarasara-9kai">ライフリー 一晩中あんしんパッド（6回吸収）とリフレ 一晩中安心さらさらパッド（9回吸収）の違い</a></li>
         <li><a href="compare-marna-gplus-bath-sheet-w241-vs-anju-okuraku-mat-kp">マーナ G+ スーパー浴室シート（W241）と安寿 おく楽すべり止めマットKPの違い</a></li>
         <li><a href="compare-shimizu-itawari-bath-handrail-600-vs-anju-ust-130">清水 いたわりお風呂手すり（サイズ600）と安寿（アロン化成）高さ調節付浴槽手すり UST-130の違い</a></li>
-        <li><a href="compare-tacaof-pt06-vs-anju-fx30s-vs-richell-kiraku">テイコブ PT06・安寿 FX-30S・リッチェル 木製きらくのポータブルトイレの違い</a></li>
         <li><a href="compare-yamazen-ys7001sn-vs-richell-47741-backless-shower">山善 コンフォートシャワースツール YS-7001SNとリッチェル 折りたたみシャワーチェア M型 47741の違い</a></li>
+        <li><a href="compare-yamazen-ys7003sn-vs-richell-yawaraka-wide-back-shower">山善 コンフォートシャワーチェア YS-7003SNとリッチェル やわらかシャワーチェア ワイドタイプ 背付の違い</a></li>
       </ul>
       <p><a href="compare-index">比較ページの一覧（全657本）を見る</a></p>
     </div>

diff --git a/category-audio.html b/category-audio.html
@@ -1952,18 +1952,18 @@
       <h2 class="pd-deep-heading"><span class="num">03</span>比較ページ（AとBの違い）から選ぶ</h2>
       <p>このカテゴリの商品どうしを、仕様表の数字で並べて比べたページです。気になる組み合わせから開けます。</p>
       <ul class="pos-list">
+        <li><a href="compare-sonos-beam-gen2-vs-sennheiser-ambeo-soundbar-plus">Sonos Beam (Gen 2)とSennheiser AMBEO Soundbar Plusの違い</a></li>
+        <li><a href="compare-sony-ht-x8500-vs-panasonic-sc-htb900">ソニー HT-X8500とパナソニック SC-HTB900の違い</a></li>
+        <li><a href="compare-yamaha-sr-b30a-vs-sr-c20a">ヤマハのサウンドバー SR-B30AとSR-C20Aの違い</a></li>
         <li><a href="compare-audio-technica-at2020-vs-razer-seiren-v3-mini">オーディオテクニカ AT2020とRazer Seiren V3 Miniの違い</a></li>
+        <li><a href="compare-audio-technica-at2040usb-vs-shure-mv7-plus">オーディオテクニカ AT2040USBとShure MV7+の違い</a></li>
+        <li><a href="compare-audio-technica-ckd30c-vs-jbl-tune-305c">オーディオテクニカ ATH-CKD30CとJBL TUNE 305Cの違い</a></li>
+        <li><a href="compare-audio-technica-r30x-vs-sony-mdr-zx310">オーディオテクニカ ATH-R30xとソニー MDR-ZX310の違い</a></li>
         <li><a href="compare-denon-avr-x1800h-vs-x580bt">デノン AVR-X1800HとAVR-X580BTの違い</a></li>
-        <li><a href="compare-edifier-r1280t-vs-mr4-vs-m60">Edifier R1280T、MR4、M60の違い</a></li>
-        <li><a href="compare-electric-strings-exl110-vs-super-slinky-vs-optiweb">D&#x27;Addario EXL110・ERNIE BALL Super Slinky 2223・Elixir OPTIWEB 19002の違い</a></li>
+        <li><a href="compare-earfun-air-pro-4-vs-air-pro-4plus">EarFun Air Pro 4とAir Pro 4+の違い</a></li>
+        <li><a href="compare-earfun-wave-pro-vs-tune-pro">EarFun Wave ProとEarFun Tune Proの違い</a></li>
         <li><a href="compare-elgato-wave-xlr-mk2-vs-wave-xlr-dock-mk2">Elgato Wave XLR MK.2とWave XLR Dock MK.2の違い</a></li>
-        <li><a href="compare-final-e3000-vs-vr3000">final E3000とfinal VR3000 for Gamingの違い</a></li>
-        <li><a href="compare-final-ze300-vs-earfun-free2s">final ZE300とEarFun Free 2Sの違い</a></li>
-        <li><a href="compare-final-ze3000-vs-ze8000">final ZE3000とZE8000の違い</a></li>
-        <li><a href="compare-jabra-elite-10-vs-galaxy-buds4-pro">Jabra Elite 10とGalaxy Buds4 Proの違い</a></li>
         <li><a href="compare-jbl-bar-300-mk2-vs-cinema-sb580">JBL BAR 300 MK2とJBL CINEMA SB580の違い</a></li>
-        <li><a href="compare-jbl-go5-vs-clip-5">JBLの小型スピーカー GO5とCLIP 5の違い</a></li>
-        <li><a href="compare-jbl-live-770nc-vs-780nc">JBL LIVE 770NCとLIVE 780 NCの違い</a></li>
       </ul>
       <p><a href="compare-index">比較ページの一覧（全657本）を見る</a></p>
     </div>

diff --git a/category-books.html b/category-books.html
@@ -1293,15 +1293,15 @@
         <li><a href="compare-brother-dcp-j916n-vs-mfc-j6983cdw">ブラザー DCP-J916NとMFC-J6983CDWの違い</a></li>
         <li><a href="compare-brother-hl-l2460dw-vs-hl-l3240cdw">ブラザー HL-L2460DWとHL-L3240CDWの違い</a></li>
         <li><a href="compare-brother-pt-p710bt-vs-pt-p300bt">ブラザー ピータッチキューブ PT-P710BTとPT-P300BTの違い</a></li>
-        <li><a href="compare-zebra-hi-mackee-12-vs-posca-pc5m-8">ゼブラ ハイマッキー 12色セットと三菱鉛筆 ポスカ 中字丸芯 8色セットの違い</a></li>
         <li><a href="compare-canon-bc-360xl-vs-bc-365xl">キヤノン純正インク BC-360XLとBC-365XLの違い</a></li>
+        <li><a href="compare-kokuyo-documentcase-734d-vs-glassele-clearbook-gl60w">コクヨ ドキュメントケース ハイハード クケ-734Dとクリヤーブック グラッセル ラ-GL60Wの違い</a></li>
+        <li><a href="compare-kokuyo-novita-documentfile-vs-lihit-document-box">コクヨ ノビータ ドキュメントファイル（6ポケット）とリヒトラブ ドキュメントボックス（13ポケット）の違い</a></li>
+        <li><a href="compare-maruman-mnemosyne-n188a-vs-midori-md-note-a5-dot">マルマン ニーモシネ ノートパッド（A5・方眼）とミドリ MDノート（A5・ドット方眼）の違い</a></li>
         <li><a href="compare-mitsubishi-jetstream-2and1-vs-4and1">三菱鉛筆 ジェットストリーム 2＆1と4＆1の違い</a></li>
-        <li><a href="compare-pilot-kakuno-vs-platinum-preppy-fountain-pen">パイロット カクノ（細字）とプラチナ プレピー（02 極細）の違い</a></li>
         <li><a href="compare-scansnap-ix1400-vs-ix1600">ScanSnap iX1400とiX1600の違い</a></li>
         <li><a href="compare-scansnap-ix2400-vs-ix2500">ScanSnap iX2400とiX2500の違い</a></li>
         <li><a href="compare-scansnap-ix500-vs-ix1500">ScanSnap iX500とiX1500の違い</a></li>
         <li><a href="compare-scansnap-s1500-vs-brother-ads-1800w">ScanSnap S1500とブラザー ADS-1800Wの違い</a></li>
-        <li><a href="compare-takahashi-liberplus-vs-kokuyo-jibun-techo-2027">高橋書店 リベルプラス1とコクヨ ジブン手帳 DIARY（2027年版）の違い</a></li>
       </ul>
       <p><a href="compare-index">比較ページの一覧（全657本）を見る</a></p>
     </div>
